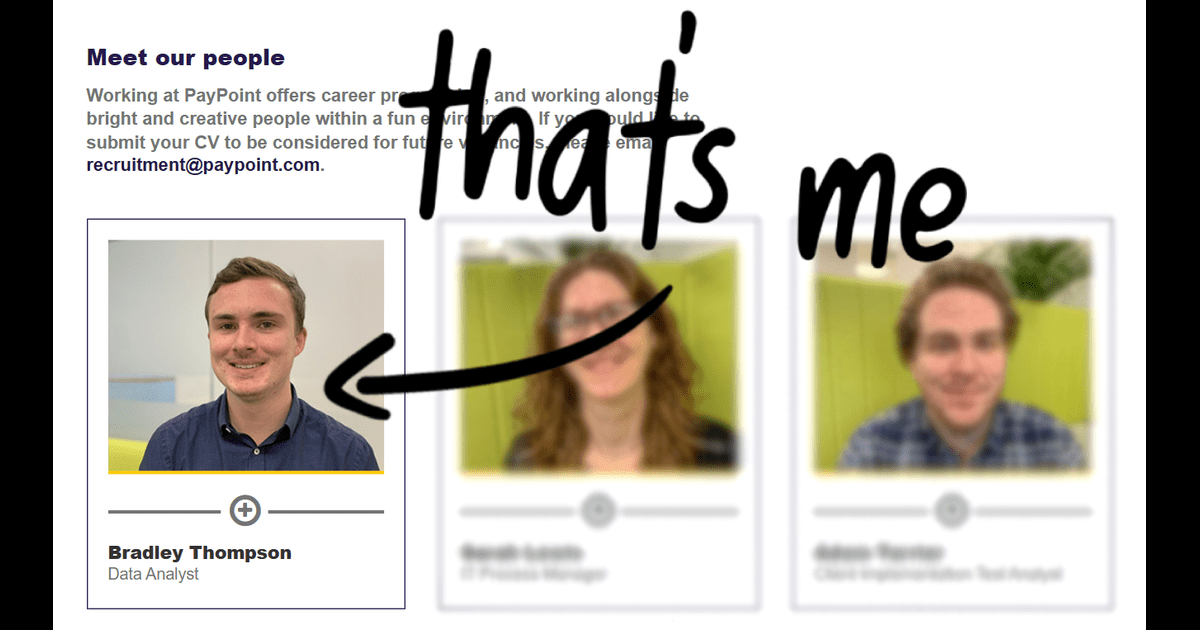
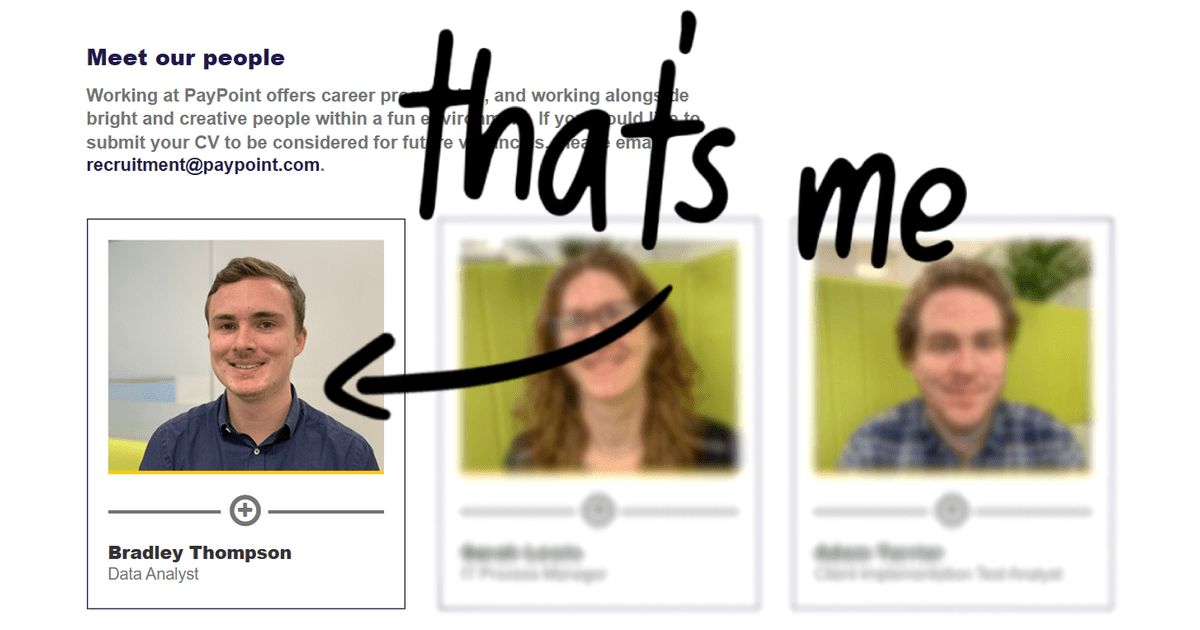
Updated Image

diff --git a/blog-post.html b/blog-post.html
@@ -27,8 +27,7 @@
 	<meta name="twitter:title" content="My Experience At PayPoint">
 	<meta name="twitter:description" content="My Experience At PayPoint. I'm happy to share that PayPoint has included me in the “meet the team” section of their careers page on their corporate website.">
 	<meta name="twitter:image" content="https://bradleyowenthompson.github.io/assets/images/blog/post-1-1200x630.png">
-
-
+	
     
     <!-- FontAwesome JS-->
     <script defer src="https://use.fontawesome.com/releases/v5.7.1/js/all.js" integrity="sha384-eVEQC9zshBn0rFj4+TU78eNA19HMNigMviK/PU/FFjLXqa/GKPgX58rvt5Z8PLs7" crossorigin="anonymous"></script>
@@ -108,7 +107,7 @@
 			    
 			    <div class="blog-post-body">
 				    <figure class="blog-banner">
-				        <img class="img-fluid" src="assets/images/blog/post-1.png" alt="image"/>
+				        <img class="img-fluid" src="assets/images/blog/post-1-1200x630.png" alt="image"/>
 				        <figcaption class="mt-2 text-center image-caption">Screenshot From PayPoint Corporate Careers Page: <a href="https://corporate.paypoint.com/careers/meet" target="_blank">View The Page</a></figcaption>
 				    </figure>
 				    <p>I'm happy to share that PayPoint has included me in the “meet the team” section of their careers page on their corporate website. This is a great opportunity for me to share my experience working at PayPoint.</p>
